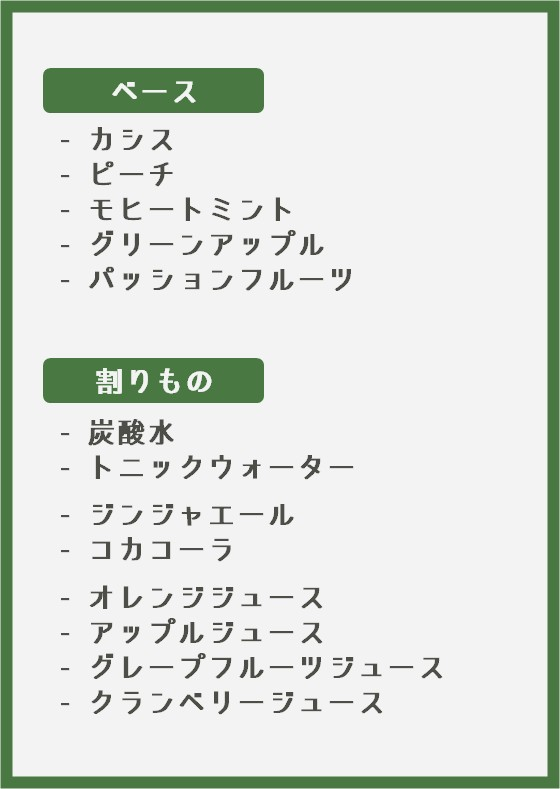
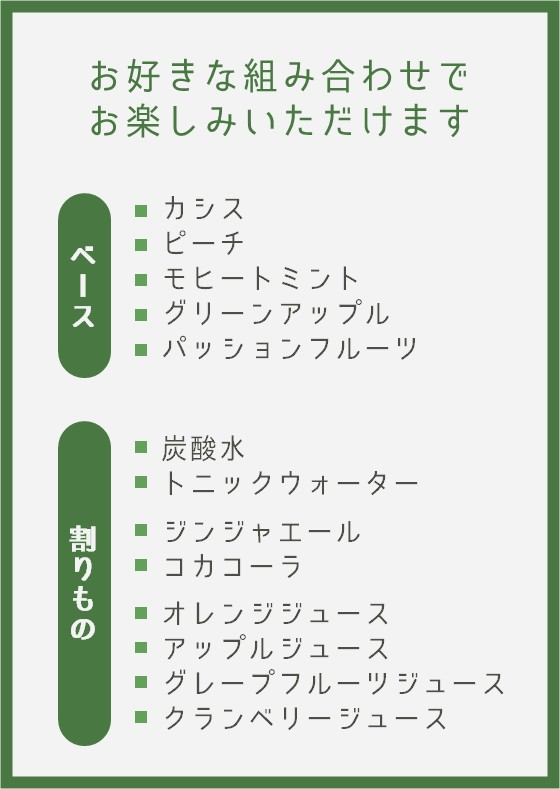
Added Sour and Juice. Replaced menus

diff --git a/index.html b/index.html
@@ -31,32 +31,42 @@
 
 								<article class="item thumb span-1">
 									<h2>Beer</h2>
-									<a href="images/fulls/beer-full.jpg" class="image"><img src="images/thumbs/beer-thumb.jpg" alt=""></a>
+									<a href="images/fulls/beer-full.jpg" class="image"><img src="images/thumbs/beer-thumb.jpg" alt="Beer"></a>
 								</article>
 
 								<article class="item thumb span-1">
 									<h2>Wine</h2>
-									<a href="images/fulls/wine-full.jpg" class="image"><img src="images/thumbs/wine-thumb.jpg" alt=""></a>
+									<a href="images/fulls/wine-full.jpg" class="image"><img src="images/thumbs/wine-thumb.jpg" alt="Wine"></a>
 								</article>
 
 								<article class="item thumb span-1">
 									<h2>Whiskey</h2>
-									<a href="images/fulls/whiskey-full.jpg" class="image"><img src="images/thumbs/whiskey-thumb.jpg" alt=""></a>
+									<a href="images/fulls/whiskey-full.jpg" class="image"><img src="images/thumbs/whiskey-thumb.jpg" alt="Whiskey"></a>
 								</article>
 
 								<article class="item thumb span-1">
-									<h2>Jin</h2>
-									<a href="images/fulls/jin-full.jpg" class="image"><img src="images/thumbs/jin-thumb.jpg" alt=""></a>
+									<h2>Gin</h2>
+									<a href="images/fulls/gin-full.jpg" class="image"><img src="images/thumbs/gin-thumb.jpg" alt="Gin"></a>
+								</article>
+
+								<article class="item thumb span-1">
+									<h2>Sour</h2>
+									<a href="images/fulls/sour-full.jpg" class="image"><img src="images/thumbs/sour-thumb.jpg" alt="Sour"></a>
 								</article>
 
 								<article class="item thumb span-1">
 									<h2>Cocktail</h2>
-									<a href="images/fulls/cocktail-full.jpg" class="image"><img src="images/thumbs/cocktail-thumb.jpg" alt=""></a>
+									<a href="images/fulls/cocktail-full.jpg" class="image"><img src="images/thumbs/cocktail-thumb.jpg" alt="Cocktail"></a>
 								</article>
 
 								<article class="item thumb span-1">
-									<h2>Soft Drinks</h2>
-									<a href="images/fulls/softdrink-full.jpg" class="image"><img src="images/thumbs/softdrink-thumb.jpg" alt=""></a>
+									<h2>Juice</h2>
+									<a href="images/fulls/juice-full.jpg" class="image"><img src="images/thumbs/juice-thumb.jpg" alt="Juice"></a>
+								</article>
+
+								<article class="item thumb span-1">
+									<h2>Soft Drink</h2>
+									<a href="images/fulls/softdrink-full.jpg" class="image"><img src="images/thumbs/softdrink-thumb.jpg" alt="Soft Drink"></a>
 								</article>
 							</div>
 
